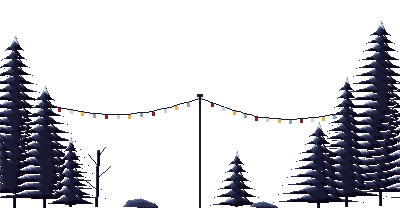
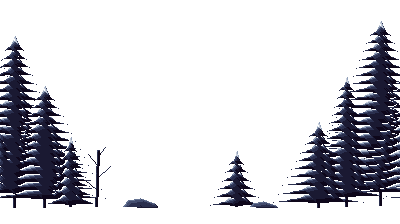
Volcano: geyser field and sinking crust lake; snow: frozen pond and a string-of-lights zip line
Claude-Session: https://claude.ai/code/session_0114fZk9r84XsbnoNJLbsP6i

diff --git a/index.html b/index.html
@@ -1291,7 +1291,16 @@ kbd { font-family: var(--body); background: var(--panel); padding: 1px 6px; bord
   }
   function genVolcano(n) {
     const r = rngOf(503 + n * 19), props = [], lava = [];
-    const vm = mixOf(n, 3, 503);
+    const vm = mixOf(n, 5, 503);
+    if (vm === 3) { /* geyser field (Claude's proposal): firm ground, three geysers on a rhythm, two rocks to wait on between them */
+      const a = pk(r, 380, 440, 20); [0, 1, 2].forEach(q => props.push({ k: 'geyser', ghost: 1, raw: 1, x: a + q * 340, w: 64, h: 0, off: q * 1.05 })); /* each one erupts about a second after the one before */
+      props.push({ k: 'rock', x: a + 170, w: 96, h: 64 }, { k: 'rock', x: a + 510, w: 96, h: 64 });
+      if (r() < 0.5) { lava.push([a + 860, a + 1020]); props.push({ k: 'slab', x: a + 940, w: 80, h: 60, hp: 2 }); }
+    } else
+    if (vm === 4) { /* crust lake (Claude's proposal): cooled crusts float on the lava and sink while 我 stands on one; a rock in the middle is the only safe rest */
+      const a = pk(r, 280, 320, 20), b = a + 1040; lava.push([a, b]);
+      for (let q = 0; q < 6; q++) { const x = a + 90 + q * 172; if (q === 3) props.push({ k: 'rock', x, w: 96, h: 96 }); else props.push({ k: 'crust', plat: 1, raw: 1, x, w: 112, h: 24, h0: 24 }); }
+    } else
     if (vm === 2) { /* pillar hop (Daniel's lava references): one long lava lake, stone pillars of different heights, a floating shelf as cover */
       const a = pk(r, 300, 360, 30); let x = a + 90, h = 64, q = 0; for (; x < 1300; x += 208, q++) { props.push({ k: 'box', x, w: 96, h }); if (q === 2) props.push({ k: 'sign', plat: 1, x: x + 104, w: 192, h: h + 170 }); h = Math.max(64, Math.min(112, h + [32, -48, 32, 16, -48, 32][q % 6])); } /* low enough, and far enough apart, to get out of the lava between two of them */
       lava.push([a, x - 208 + 90]);
@@ -1302,7 +1311,19 @@ kbd { font-family: var(--body); background: var(--panel); padding: 1px 6px; bord
   }
   function genSnow(n) {
     const r = rngOf(601 + n * 23), a = pk(r, 160, 280, 40), props = []; let hill;
-    const sm = mixOf(n, 3, 601);
+    const sm = mixOf(n, 5, 601);
+    if (sm === 3) { /* frozen pond (Claude's proposal): flat, slippery ice; a fist breaks a panel into a hole of cold water that freezes over again after 6 s */
+      const a = pk(r, 260, 320, 20); hill = [[0, 0], [1180, 0], [1380, 200], [1600, 200]];
+      for (let x = a; x < 1100; x += 80) props.push({ k: 'ice', plat: 1, raw: 1, x: x + 40, w: 80, h: 2, hp: 1 });
+      props.push({ k: 'rock', snow: 1, x: a + 420, w: 96, h: 64 });
+      return { name: 'FROZEN POND ' + n, sec: 'snow', scene: 'snow', slide: 1, hill, props };
+    }
+    if (sm === 4) { /* light line (the art thread's snow mock has a string of lights on a pole; Claude's proposal: ride it down like a zip line) */
+      const a = pk(r, 160, 220, 20); hill = [[0, 0], [a, 0], [a + 260, 260], [a + 420, 260], [a + 470, 40], [a + 900, 40], [a + 1100, 240], [1600, 240]];
+      props.push({ k: 'cable', ghost: 1, raw: 1, lights: 1, x: 0, w: 0, h: 0, cx0: a + 380, cy0: 260 + 152, cx1: a + 980, cy1: 240 + 152 });
+      { const c = props[props.length - 1]; c.x = (c.cx0 + c.cx1) / 2; c.w = c.cx1 - c.cx0; }
+      return { name: 'LIGHT LINE ' + n, sec: 'snow', scene: 'snow', slide: 1, hill, props };
+    }
     if (sm === 2) { /* a gully: up, down into a sheltered dip under a snow ledge, then the long slope out */
       const g = Math.min(a, 160); /* the top must start before the big rock at 1100+ */ hill = [[0, 0], [g, 0], [g + 200, 200], [g + 320, 200], [g + 400, 120], [g + 560, 120], [g + 700, 260], [g + 760, 260], [g + 880, 380], [1600, 380]];
       props.push({ k: 'leaf', plat: 1, x: g + 440, w: 100, h: 120 + 200, hp: 2 }, { k: 'leaf', plat: 1, x: g + 540, w: 100, h: 120 + 200, hp: 2 });
@@ -1545,6 +1566,8 @@ kbd { font-family: var(--body); background: var(--panel); padding: 1px 6px; bord
   const inWater = () => { const w = ROOMS[R.i].water; return !!w && P.x > w.x0 && P.y < w.top; };
   const lavaAt = x => (ROOMS[R.i].lava || []).some(z => x > z[0] && x < z[1]);
   const rideLeft = () => ROOMS[R.i].ride ? Math.max(0, ROOMS[R.i].ride - (R.t - R.t0)) : 0;
+  const GEY_H = 300, geyserPh = p => { const t = (R.t + p.off) % 3.2; return t < 0.8 ? 1 : t < 1.8 ? 2 : 0; }; // volcano geysers: bubble 0.8 s (1), erupt 1 s (2), quiet 1.4 s (0)
+  const onIce = () => !P.air && P.y < 6 && R.props.some(p => p.k === 'ice' && !p.dead && Math.abs(P.x - p.x) <= p.w / 2);
   const laserOn = p => p.lock ? R.props.some(q => q.k === 'cell' && !q.dead) : ((R.t + p.off) % 3) < 1.6; // laser gates: on 1.6s, off 1.4s
   function fallBoard(p) { p.fallen = 1; p.ghost = 0; p.plat = 1; p.x = p.bx; p.w = p.bw; p.h = p.bh; p.hp = null; } // a billboard drops across the gap as a bridge
   function driftProps() { for (const p of R.props) if (p.drift) p.x = p.x0 + Math.sin(R.t * p.drift[1] + p.drift[2]) * p.drift[0]; }
@@ -1642,6 +1665,11 @@ kbd { font-family: var(--body); background: var(--panel); padding: 1px 6px; bord
     if (S.st === 'play') {
       if (P.y < -220) { // fell between the buildings: one heart, back to the last safe spot
         P.x = P.sx == null ? 70 : P.sx; P.y = P.sy || 0; P.vx = 0; P.vy = 0; P.air = false; P.zip = null; P.mom = 0; loseHeart('FELL!', '#2ce8f5');
+      } else if (!P.air && P.y < 6 && R.props.some(p => p.k === 'ice' && p.dead && Math.abs(P.x - p.x) < p.w / 2 - 8) && !onIce()) { // a hole in the ice: cold water, one heart, and out again
+        P.vy = 820; P.air = true; if (!reduce) burst(P.x, FLOOR - 4, 12, ['#ffffff', '#0099db', '#c0cbdc'], 300, 1, 700, 5);
+        if (S.hurt <= 0) loseHeart('BRR!', '#2ce8f5'); else sfx.dash();
+      } else if (S.hurt <= 0 && R.props.some(p => p.k === 'geyser' && geyserPh(p) === 2 && Math.abs(P.x - p.x) < 44 && P.y < Math.max(0, rampAt(p.x)) + GEY_H)) { // a geyser: one heart, thrown clear
+        const gp = R.props.find(p => p.k === 'geyser' && Math.abs(P.x - p.x) < 44); P.vy = 700; P.air = true; P.vx = (P.x < gp.x ? -1 : 1) * 380; loseHeart('HOT!', '#f77622');
       } else if (!P.air && P.y < 2 && lavaAt(P.x)) { // lava: burns once, and always throws 我 back up
         P.vy = 820; P.air = true; if (!reduce) burst(P.x, FLOOR - 4, 12, ['#fee761', '#f77622', '#e43b44'], 300, 1, 700, 5);
         if (S.hurt <= 0) loseHeart('HOT!', '#f77622'); else sfx.dash();
@@ -1702,11 +1730,16 @@ kbd { font-family: var(--body); background: var(--panel); padding: 1px 6px; bord
       if (p.hp <= 0) { if (p.k === 'board') fallBoard(p); else if (p.elec) p.sparkT = 1; else p.dead = true; }
     }
   }
+  function tickCrust(dt) { const mx = role === 'me' ? P.x : B.tx, my = role === 'me' ? P.y : (B.ty || 0), ma = role === 'me' ? P.air : my > 4 && !R.props.some(p => p.k === 'crust' && Math.abs(my - p.h) < 8);
+      for (const p of R.props) if (p.k === 'crust') { /* sinks over 1.4 s while stood on, floats back up over 2 s */
+        const on = mx != null && !ma && Math.abs(mx - p.x) < p.w / 2 + 6 && Math.abs(my - p.h) < 8; p.sk = clamp((p.sk || 0) + (on ? dt / 1.4 : -dt / 2), 0, 1); p.h = Math.round(p.h0 - p.sk * (p.h0 + 8)); } }
   function tickProps(dt) { driftProps();
     if (role === 'me' && ROOMS[R.i] && ROOMS[R.i].core) { /* the core: cells burn out slowly by themselves, and the shield falls with the last one */
       for (const p of R.props) if (p.k === 'cell' && !p.dead && !(p.sparkT > 0)) { p.ct = (p.ct || 0) + dt; if (p.ct >= 10) { p.ct = 0; p.hp -= 1; propFx(p, p.hp <= 0); if (p.hp <= 0) p.sparkT = 1; } }
       const lk = R.props.find(p => p.lock); if (lk && !lk.down && !laserOn(lk)) { lk.down = 1; banner('SHIELD DOWN!', 'Run for the exit', '#63c74d'); sfx.levelup(); }
-    } for (const p of R.props) { if (p.spinT > 0) p.spinT -= dt; if (p.sparkT > 0) { p.sparkT -= dt; if (p.sparkT <= 0) p.dead = true; } } }
+    } tickCrust(dt); {
+      if (role === 'me') for (const p of R.props) if (p.k === 'ice' && p.dead) { p.it = (p.it || 0) + dt; if (p.it > 6) { p.it = 0; p.dead = false; p.hp = 1; } } } /* a hole freezes over after 6 s */
+    for (const p of R.props) { if (p.spinT > 0) p.spinT -= dt; if (p.sparkT > 0) { p.sparkT -= dt; if (p.sparkT <= 0) p.dead = true; } } }
   const propCode = p => p.dead ? 0 : p.fallen ? 5 : p.sparkT > 0 ? -1 : p.open ? 7 : p.spinT > 0 ? 6 : p.hp == null ? 9 : p.hp;
   // 兄弟 side: follow 我's room and prop state.
   function syncRoom(tp, dt) {
@@ -1727,7 +1760,7 @@ kbd { font-family: var(--body); background: var(--panel); padding: 1px 6px; bord
       if (fresh) for (let row = 0; row < 31; row++) if (fresh & (1 << row)) glassFx(k ? -1 : 1, row);
       R.gl[k] = v;
     }
-    driftProps();
+    driftProps(); tickCrust(dt);
     if (Array.isArray(tp.ey)) tp.ey.forEach((v, k) => { if (R.el[k]) R.el[k].y = +v || 0; });
     if (typeof tp.gt === 'number') R.t = Math.abs(tp.gt - R.t) > 0.5 ? tp.gt : R.t + dt;
     B.ty = (B.ty || 0) + ((+tp.y || 0) - (B.ty || 0)) * Math.min(1, dt * 18);
@@ -2330,7 +2363,7 @@ kbd { font-family: var(--body); background: var(--panel); padding: 1px 6px; bord
     bamboo: { L: [['bg_sky', 0], ['bg_far_long', 0.05], ['bg_mid_long', 0.12], ['bg_near_long', 0.3]], S: ['stalk', 'shroom', 'thick', 'rock', 'hedge', 'pot', 'torii', 'stone_lantern', 'statue', 'mossy_rock', 'raft', 'bamboo_ladder', 'stone_lantern_b', 'trunk'] },
     lake: { L: [['bg_sky_b', 0], ['bg_far_b', 0.05], ['bg_mid', 0.12], ['bg_near', 0.3]], S: ['turtle', 'weed', 'rock', 'statue', 'column_top'] } /* the _b layers have the waterline 22 art px from the top, a night sky and boats above it (Daniel: no city over the lake, 90% under water) */,
     volcano: { L: OUT_L, S: ['slab', 'slab_cracked', 'rock'] },
-    snow: { L: OUT_L, S: ['pine', 'rock'] },
+    snow: { L: OUT_L, S: ['pine', 'rock', 'light_pole'] },
     dojo: { L: [['bg_sky', 0], ['bg_far', 0.06], ['bg_mid', 1], ['bg_near', 1]], S: ['dummy', 'crate', 'drum'], V: ['bg_mid'], T: ['bg_sky', 'bg_far'] /* T: layers with a `_tall` file, one more screen of picture above for when the view rises */ },
     house: { L: [['bg_sky', 0], ['bg_far', 1]], S: ['sofa', 'table', 'shelf', 'fridge', 'bed', 'crate', 'armchair', 'lamp', 'plant', 'tv', 'wardrobe', 'clock', 'stove', 'chair', 'candle_table', 'vase', 'rug', 'stairs'], V: ['bg_far'] },
     elevator: { L: [['bg_sky', 0], ['bg_far', 1], ['bg_mid', 1], ['bg_near', 1]], S: [] },
@@ -2390,6 +2423,22 @@ kbd { font-family: var(--body); background: var(--panel); padding: 1px 6px; bord
         const fx = l + w * (i + 0.5) / n + Math.sin(ph * 9 + i) * 16 - (1 - ph) * 30, fy = FLOOR - hy(fx) - 4 - (1 - ph) * 150; /* sways down and settles on the edge */
         if (ph < 0.96) R_(PET[i % 2], fx, fy, 4, 4); }
       return true; }
+    if (k === 'geyser') { /* volcano: a vent in the ground that bubbles, then throws up a column of lava (geyserPh) */
+      const ph = geyserPh(p), base = FLOOR - Math.max(0, rampAt(p.x));
+      R_('#3e2731', p.x - 28, base - 8, 56, 8); R_(ph > 0 ? '#feae34' : '#e43b44', p.x - 16, base - 8, 32, 4);
+      if (ph === 1) for (let i = 0; i < 3; i++) { const bt = (now / 300 + i / 3) % 1; R_(i % 2 ? '#feae34' : '#f77622', p.x - 16 + i * 12, base - 12 - bt * 40, 8, 8); } /* warning: bubbles */
+      if (ph === 2) { const top = base - GEY_H; R_('#e43b44', p.x - 28, top, 56, GEY_H); R_('#f77622', p.x - 20, top, 40, GEY_H); R_('#feae34', p.x - 8, top + 8, 16, GEY_H - 8); R_('#fee761', p.x - 4, top + (Math.floor(now / 60) % 4) * 16, 8, 24);
+        for (let i = 0; i < 4; i++) R_(i % 2 ? '#feae34' : '#f77622', p.x - 36 + i * 20 + (Math.floor(now / 90 + i) % 2) * 4, top - 8 - (i % 2) * 8, 12, 12); }
+      return true; }
+    if (k === 'crust') { /* volcano: a cooled crust floating on the lava; it sinks while 我 stands on it */
+      ctx.save(); ctx.beginPath(); ctx.rect(l - 8, 0, w + 16, FLOOR); ctx.clip();
+      const n = Math.max(1, Math.round(w / 96)); for (let q = 0; q < n; q++) S(p.sk > 0.45 ? 'slab_cracked' : 'slab', l + w * (q + 0.5) / n, t + 32) || R_('#3e2731', l, t, w, 32);
+      ctx.restore(); if (p.sk > 0.2) for (let x = l + 8; x < l + w - 8; x += 24) R_('#f77622', x + (Math.floor(now / 120) % 2) * 4, FLOOR - 12, 8, 4); /* lava licks up around it */
+      return true; }
+    if (k === 'ice') { /* snow: a frozen pond panel, slippery; a fist breaks it into a hole that freezes over again */
+      if (p.dead) { R_('#124e89', l, FLOOR - 12, w, 16); R_('#0099db', l + 8 + (Math.floor(now / 300) % 3) * 12, FLOOR - 4, 16, 4); R_('#ffffff', l, FLOOR - 8, 4, 4); R_('#ffffff', l + w - 4, FLOOR - 8, 4, 4); return true; }
+      R_('#5a6988', l, FLOOR - 12, w, 16); R_('#8b9bb4', l + 4, FLOOR - 12, w - 8, 4); R_('#0099db', l + 4, FLOOR - 8, w - 8, 4); R_('#2ce8f5', l + 12 + (p.x * 7 % 40), FLOOR - 8, 16, 4); R_('#ffffff', l + 8 + (p.x * 3 % 32), FLOOR - 12, 8, 4); /* blue-grey ice, darker than the snow, with glints */
+      return true; }
     if (k === 'ladder') { const im = A.ok('bamboo_ladder'); if (!im) return false; for (let y = FLOOR - (p.base || 0); y > FLOOR - (p.base || 0) - p.h + 4; y -= im.naturalHeight * PX) spr(im, p.x, y - im.naturalHeight * PX); return true; }
     if (k === 'raft') { const im = A.ok('raft'), tr = A.ok('trunk'); if (!im) return false;
       if (tr) for (const sx of [l + 28, l + w - 28]) for (let y = t + 40; y < FLOOR; y += tr.naturalHeight * PX) { const hh = Math.min(tr.naturalHeight * PX, FLOOR - y); ctx.drawImage(tr, 0, 0, tr.naturalWidth, hh / PX, sx - tr.naturalWidth * PX / 2, y, tr.naturalWidth * PX, hh); } /* stilts down to the ground */
@@ -2419,7 +2468,7 @@ kbd { font-family: var(--body); background: var(--panel); padding: 1px 6px; bord
     return false;
   }
   function plate(rm) { if (VIEW.nb) return; bx(248 + viewX(), 16 - camY(), 412, 28, '#181425'); ctx.fillStyle = '#c0cbdc'; ctx.font = '16px ' + PF; ctx.textAlign = 'left'; ctx.fillText(`ROOM ${R.i + 1}/${ROOMS.length} · ${rm.name}`, 260 + viewX(), 36 - camY()); }
-  const drawProps = () => R.props.forEach(p => { if (p.dead && p.k === 'floor') { bx(p.x - p.w / 2, FLOOR - p.h, p.w, 32, '#181425'); return; } if (p.dead || artProp(p)) return; if (p.raw) drawProp(p); else litSprite(p.x - p.w / 2 - 16, FLOOR - p.h - 64, p.w + 64, (p.hh || p.h) + 64, () => drawProp(p)); });
+  const drawProps = () => R.props.forEach(p => { if (p.dead && p.k === 'ice') { artProp(p); return; } if (p.dead && p.k === 'floor') { bx(p.x - p.w / 2, FLOOR - p.h, p.w, 32, '#181425'); return; } if (p.dead || artProp(p)) return; if (p.raw) drawProp(p); else litSprite(p.x - p.w / 2 - 16, FLOOR - p.h - 64, p.w + 64, (p.hh || p.h) + 64, () => drawProp(p)); });
   function artScene(rm, sec) { // a whole room from its level set: backdrop, ground, the moving bits, props
     const A = ART[sec], sc = rm.scene, now = performance.now(), open = rm.void || rm.vac;
     if (!artBack(sec, null, open ? 'bg_near' : null)) return false;
@@ -2512,6 +2561,12 @@ kbd { font-family: var(--body); background: var(--panel); padding: 1px 6px; bord
       else {
       R_('#5a6988', l, t - 12, w, 12); R_('#8b9bb4', l, t - 12, w, 4); R_('#181425', l + 8, t - 8, w - 16, 4); R_(on ? '#c0cbdc' : '#3a4466', l + 12, t - 8, 16, 4); R_(on ? '#3a4466' : '#c0cbdc', l + 36, t - 8, 16, 4); }
       for (let q = 0; q < 3; q++) { const yy = t - (VA ? 64 : 36) - q * 20 - (Math.floor(performance.now() / 150) % 3) * 4; R_('#f77622', p.x - 12, yy, 8, 4); R_('#f77622', p.x + 4, yy, 8, 4); R_('#f77622', p.x - 4, yy - 4, 8, 4); }
+      return;
+    }
+    if (p.k === 'cable' && p.lights) { // snow: a string of lights between two poles, ridden like a zip cable
+      const cyAt = x => p.cy0 + (p.cy1 - p.cy0) * (x - p.cx0) / (p.cx1 - p.cx0), sag = x => Math.sin(Math.PI * (x - p.cx0) / (p.cx1 - p.cx0)) * 0;
+      const LP = ART.snow && ART.snow.ok('light_pole'); for (const [cx, cy] of [[p.cx0, p.cy0], [p.cx1, p.cy1]]) { const g = Math.max(0, rampAt(cx)); if (LP) spr(LP, cx, FLOOR - g - LP.naturalHeight * PX); else { R_('#262b44', cx - 4, FLOOR - cy - 8, 8, cy - g + 8); R_('#181425', cx - 8, FLOOR - cy - 12, 16, 8); } } /* the art thread's light_pole (40 art px), standing on the ground; the wire hangs from its cap, 152 above the ground */
+      for (let x = p.cx0, i = 0; x < p.cx1; x += 8, i++) { const y = FLOOR - cyAt(x) - sag(x); R_('#181425', x, y, 8, 4); if (i % 4 === 2) R_(['#e43b44', '#feae34', '#ffffff', '#feae34'][(i >> 2) % 4], x, y + 4, 8, 8); }
       return;
     }
     if (p.k === 'cable') { // a zip cable between two roofs, with a post at each end
@@ -3208,9 +3263,9 @@ kbd { font-family: var(--body); background: var(--panel); padding: 1px 6px; bord
     { const fr = ROOMS[R.i].fast, hit = S.hurt > 0.6; // rooftop run: running on without stopping builds speed; a hit, a stop or a turn loses it
       if (dir && dir !== P.momD) P.mom = 0; if (dir) P.momD = dir;
       if (fr && dir && !hit) P.mom = Math.min(1, (P.mom || 0) + dt / 1.2); else P.mom = Math.max(0, (P.mom || 0) - dt * (hit || !fr ? 9 : P.air ? 0.5 : 4)); }
-    const max = moveMax() * bk * (1 + 0.45 * (P.mom || 0));
+    const ice = role === 'me' && onIce(), max = moveMax() * bk * (1 + 0.45 * (P.mom || 0)) * (ice ? 1.25 : 1);
     if (dir) P.face = dir;
-    if (dir) P.vx += dir * acc * dt; else P.vx *= Math.pow(0.0005, dt);
+    if (dir) P.vx += dir * acc * dt * (ice ? 0.35 : 1); else P.vx *= Math.pow(ice ? 0.6 : 0.0005, dt); /* on ice 我 is slow to start and slow to stop */
     P.vx = clamp(P.vx, -max, max);
     movePlayer(dt);
     if (S.st !== 'play') return;

diff --git a/CLAUDE.md b/CLAUDE.md
@@ -299,6 +299,15 @@ A pixel-art party game in a single file, `index.html`, hosted on GitHub Pages
   petals only lie on edges that show. On the ground the
   `arch` bridge is a hump in `rampAt` (physics only; `rampAt0` is the drawn ground). In a tall room, layers with no `_tall` picture sink
   as the camera rises (`artBack`, factor ≥ 0.1 fully, else 0.6). The earlier bamboo scaffold in the gardens is gone.
+- Volcano and snow screens (Claude's proposals, 2026-11-15, started while Daniel picks the next task): `genVolcano` picks from five
+  screens (`mixOf(n, 5, 503)`), new: m 3 GEYSER FIELD (`geyser` props, ghost: bubble 0.8 s, erupt 1 s as a `GEY_H` 300 column, quiet
+  1.4 s, `geyserPh`; offsets 1.05 s apart; a touch while erupting costs a heart and throws 我 clear; two rocks to wait on) and m 4 CRUST
+  LAKE (`crust` one-way plates on the lava, `h0` 24; `tickCrust` sinks one over 1.4 s while 我 stands on it and floats it back over 2 s,
+  also on the 兄弟 side from 我's position; a rock in the middle). `genSnow` picks from five (`mixOf(n, 5, 601)`), new: m 3 FROZEN POND
+  (`ice` panels, one-way h 2, 1 hp: slippery while 我 stands on them (`onIce`, slow to start, slow to stop); a fist breaks a panel into a
+  hole of cold water (BRR!, one heart) that freezes over after 6 s) and m 4 LIGHT LINE (a `cable` with `lights`: the string of lights
+  from the art thread's snow mock on two `light_pole` sprites, ridden like a rooftop zip line across a valley). The art thread took the
+  light strings out of the snow backgrounds so only the real one shows. The test bot (no hazard timing) still reaches the end of snow.
 - Catch and throw back (Daniel picked option A for 我's combat, 2026-11-15; the details are Claude's): a perfect block on a normal fist (not
   如来神掌, 黄泉指 or a side fist) also catches it (`S.held`, 2 s, drawn over 我's head by `drawCaught`). ↑ (`tryJump` → `throwHeld(true)`)
   throws it up: after ~0.5 s it reaches the 兄弟 whose `aim` is nearest 我 (the practice bot when alone), whose fists lock for 3 s
